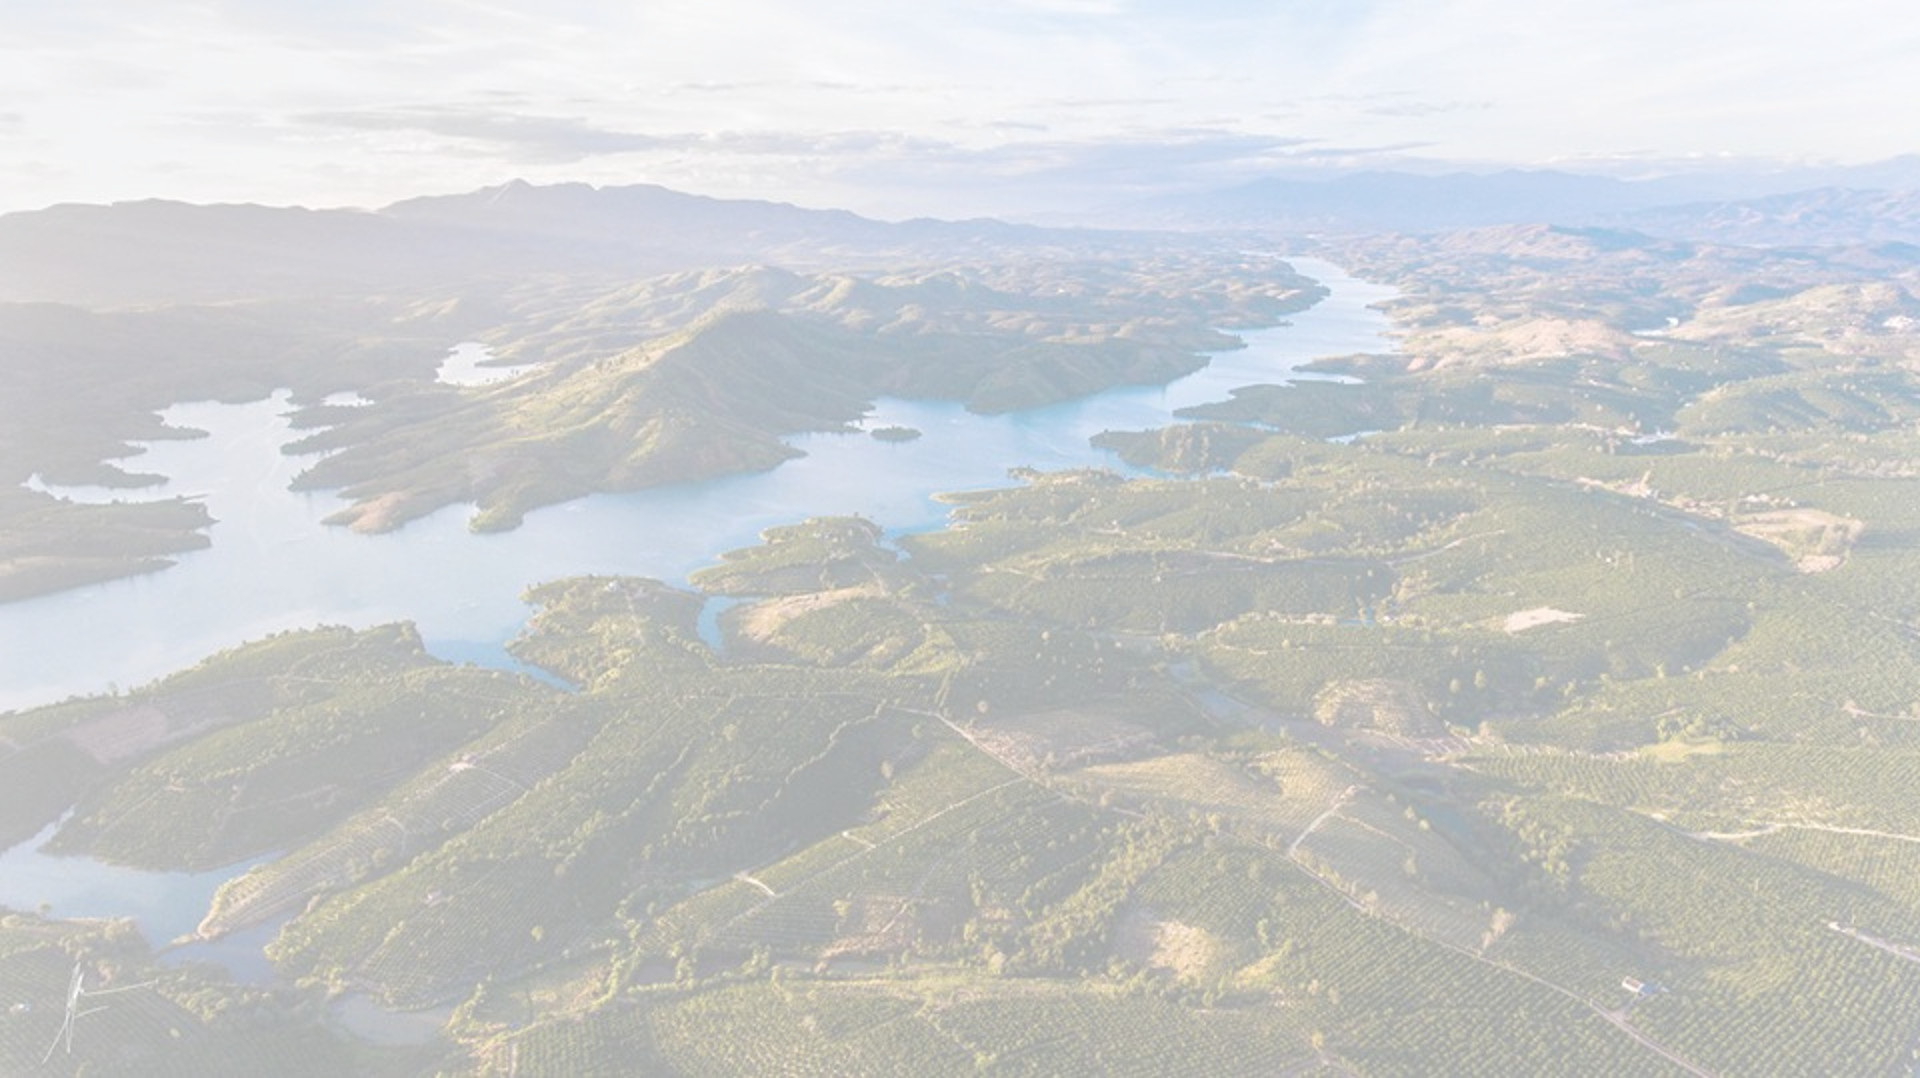
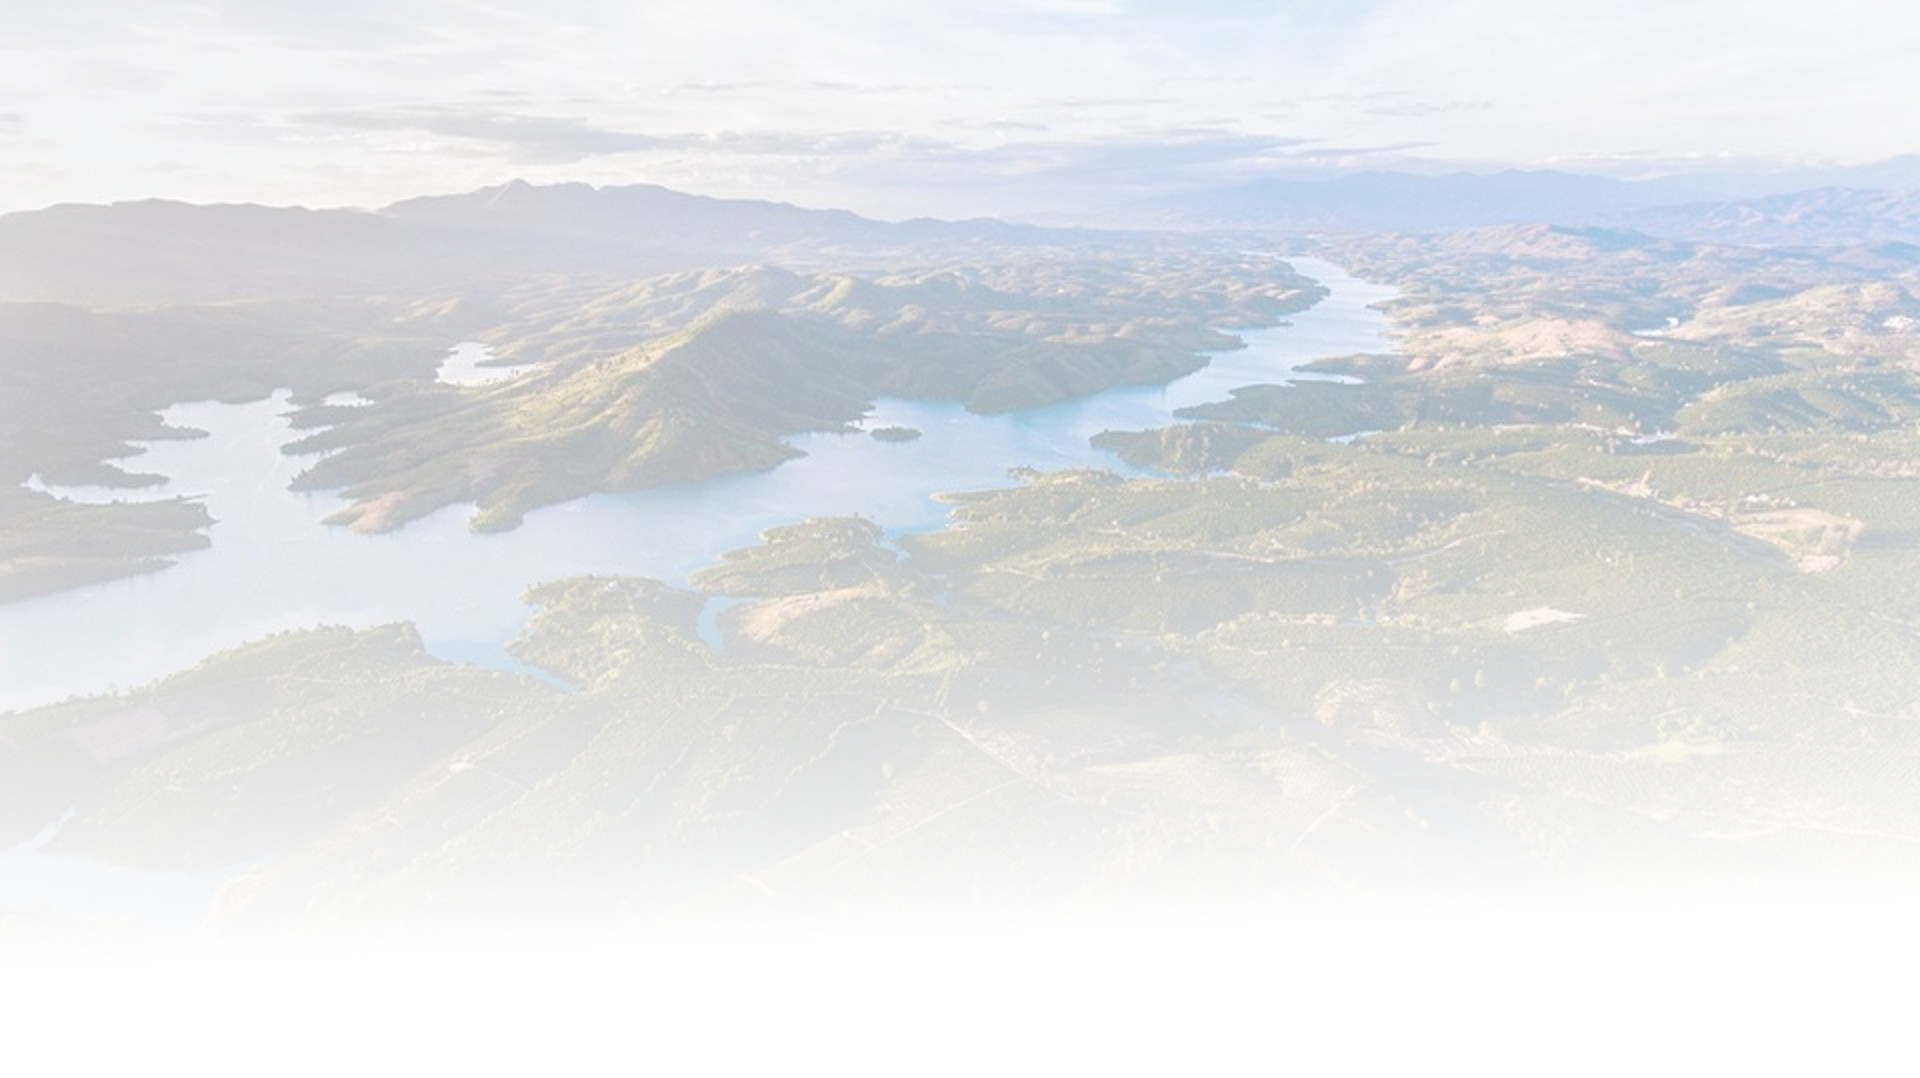
Update about page

diff --git a/src/public/frontend/css/style.css b/src/public/frontend/css/style.css
@@ -6779,6 +6779,11 @@ section {
     color: #f49ac1;
 }
 
+.heading-sec h4.green {
+    color: #558B2F;
+    font-weight: bold;
+}
+
 .products .heading-sec,
 .blog .heading-sec,
 #process .heading-sec,
@@ -10012,7 +10017,7 @@ img.div-line2 {
 }
 
 .floweraboutv1 {
-    background: #ffffff;
+    background: url('../images/uploads/aboutv1-bg.jpg') no-repeat;
 }
 
 .floweraboutv1 .ab-decorate {

diff --git a/src/public/frontend/css/custom-style.css b/src/public/frontend/css/custom-style.css
@@ -326,12 +326,16 @@ header nav li.devider{
 		display: none;
 	}
 }
- 
- .langchoose .btn{
+
+.langchoose{
+ 	float: right;
+}
+
+.langchoose .btn{
  	background-color: #558B2F;
  	color: #fff;
  	border: 1px solid #fff;
- }
+}
 
 .langchoose .dropdown-menu li a{
 	color: #558B2F;

diff --git a/src/resources/views/front/home/about.blade.php b/src/resources/views/front/home/about.blade.php
@@ -57,7 +57,7 @@ Sharing together and developing together, make the world better with quality cof
             <div class="col-md-12 col-sm-12 col-xs-12">
                 <div class="heading-sec">
                     <h1>{{$info_page_translation->title}}</h1>
-                    <h4 class="grey">-{!! $info_page_translation->description !!}-</h4>
+                    <h4 class="green">-{!! $info_page_translation->description !!}-</h4>
                 </div>
             </div>
             <div class="col-md-12 col-sm-12 col-xs-12">
@@ -75,19 +75,24 @@ Sharing together and developing together, make the world better with quality cof
             <div class="col-md-6 col-sm-6 col-xs-12">
                 <div class="ab-item">
                     <img src="frontend/images/uploads/abflower1.png" alt="">
-                    <h2>Our vision</h2>
-                    <p>ô Kô Farms determines to become a sustainable development cooperative, that helps farmers to have a better life through responsible coffee producing. Furthermore, Pô Kô Farms will be the first choice of customers who want to buy Fairtrade certified coffee in particular and agricutural  products in general from Vietnam.</p>
+                    <h2>@lang('about.our-vision')</h2>
+                    <p>@lang('about.vision-details')</p>
                 </div>
             </div>
             <div class="col-md-6 col-sm-6 col-xs-12">
                 <div class="ab-item">
                     <img src="frontend/images/uploads/abflower2.png" alt="">
-                    <h2>Our mission</h2>
-                    <p>Pô Kô Farms aims to become a cooperative that specializes in producing and supplying high quality Fairtrade certified coffee for current buyers and new customers in the future.
-By growing and selling Fairtrade certified coffee, Pô Kô Farms wishes to improve farmers income and quality of life for their  households .
-Sharing together and developing together, make the world better with quality coffee.</p>
+                    <h2>@lang('about.our-mission')</h2>
+                    <p>@lang('about.mission-details')</p>
                 </div>
             </div>
+        </div>
+    </div>
+</div>
+<div class="row">
+    <div class="col-md-12">
+        <div class="farm-img">
+            <img src="frontend/images/uploads/aboutv1-bg-footer.jpg" alt="farm">
         </div>
     </div>
 </div>
